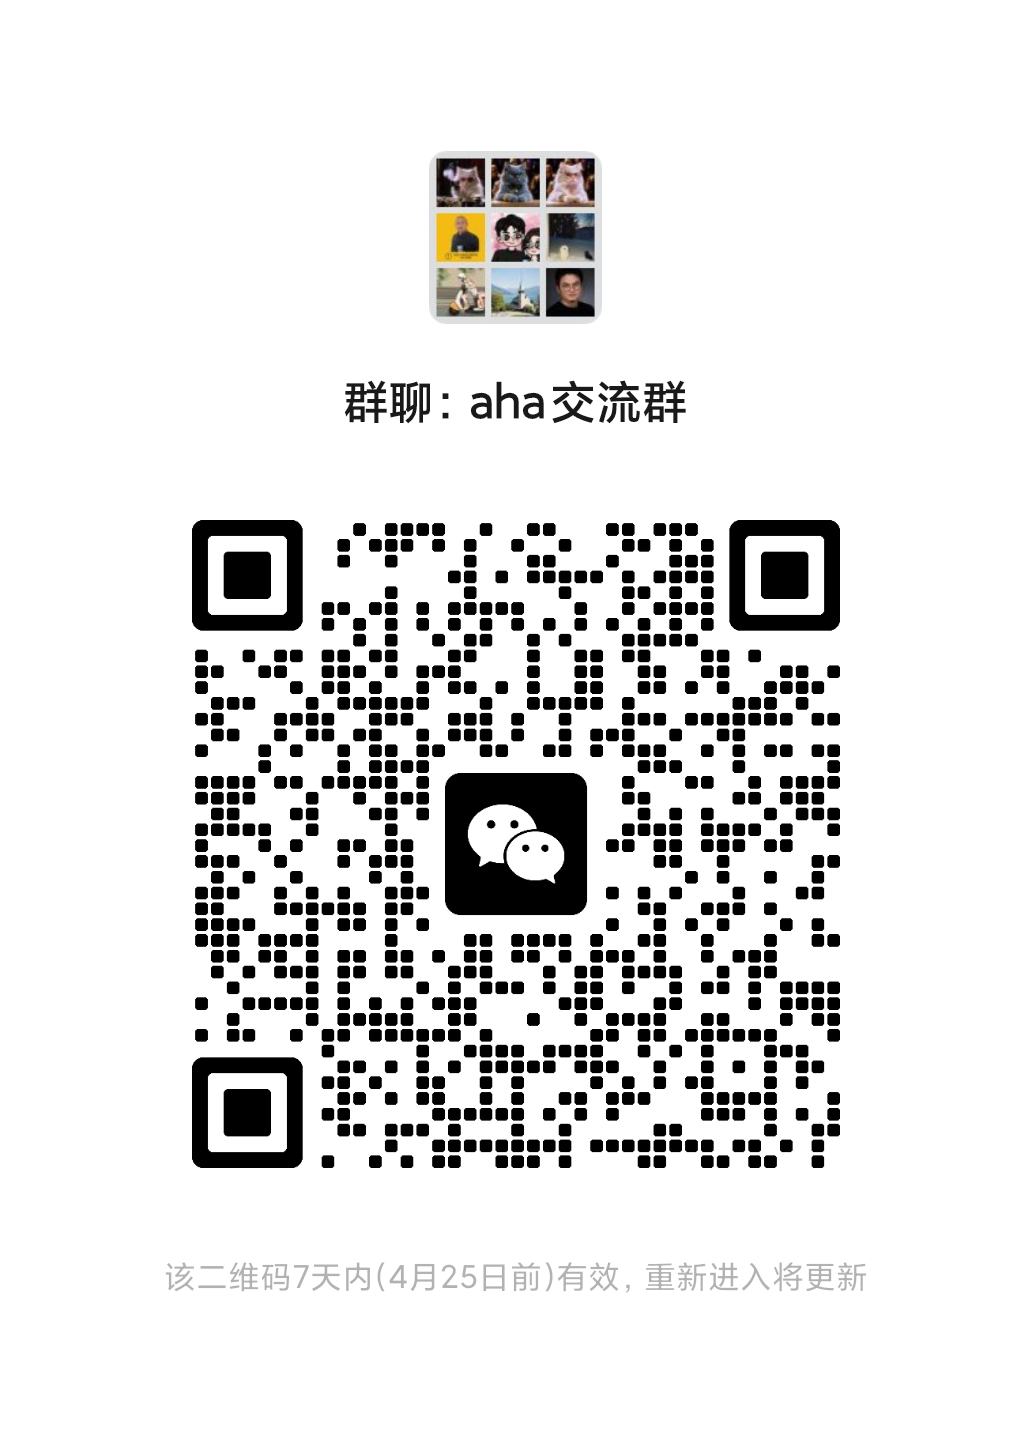
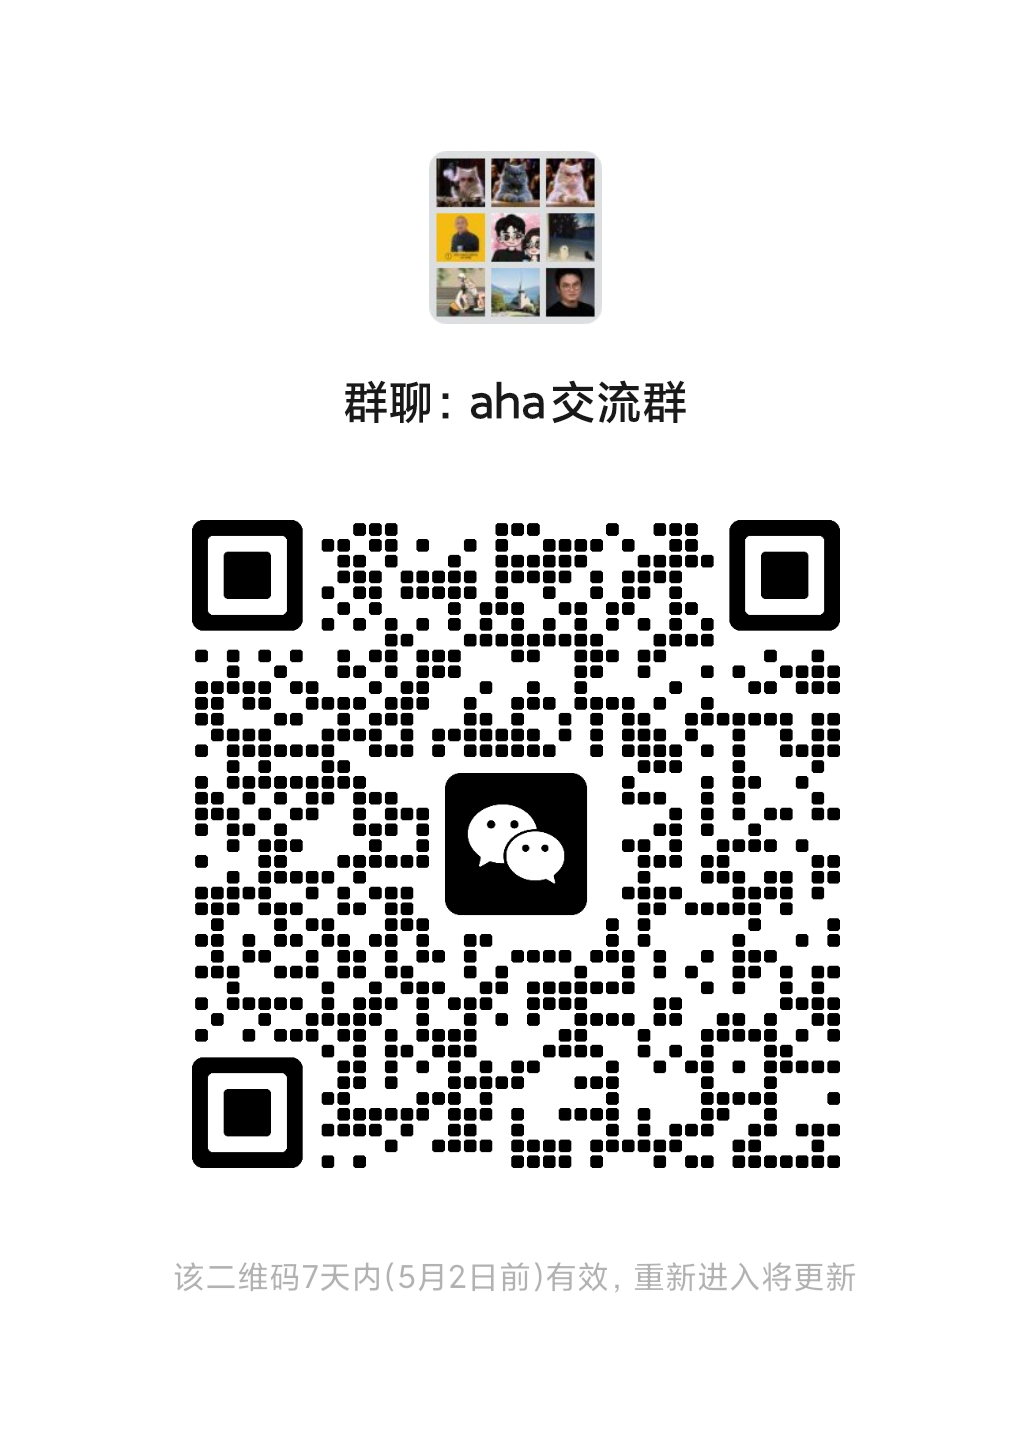
update weixinqun qrcode

Changed region(s): [[0.1862, 0.3416, 0.838, 0.8075], [0.1552, 0.8696, 0.838, 0.9006]]

diff --git a/README.md b/README.md
@@ -226,7 +226,7 @@ Apache-2.0 &mdash; See [LICENSE](LICENSE) for details.
 
 | Wechat Group | Donate |
 |--------------|--------|
-| ![Wechat Group-expired 260425](./assets/img/aha_weixinqun.png) | ![Donate](./assets/img/donate.png) |
+| ![Wechat Group-expired 260502](./assets/img/aha_weixinqun.png) | ![Donate](./assets/img/donate.png) |
 
 </div>
 
